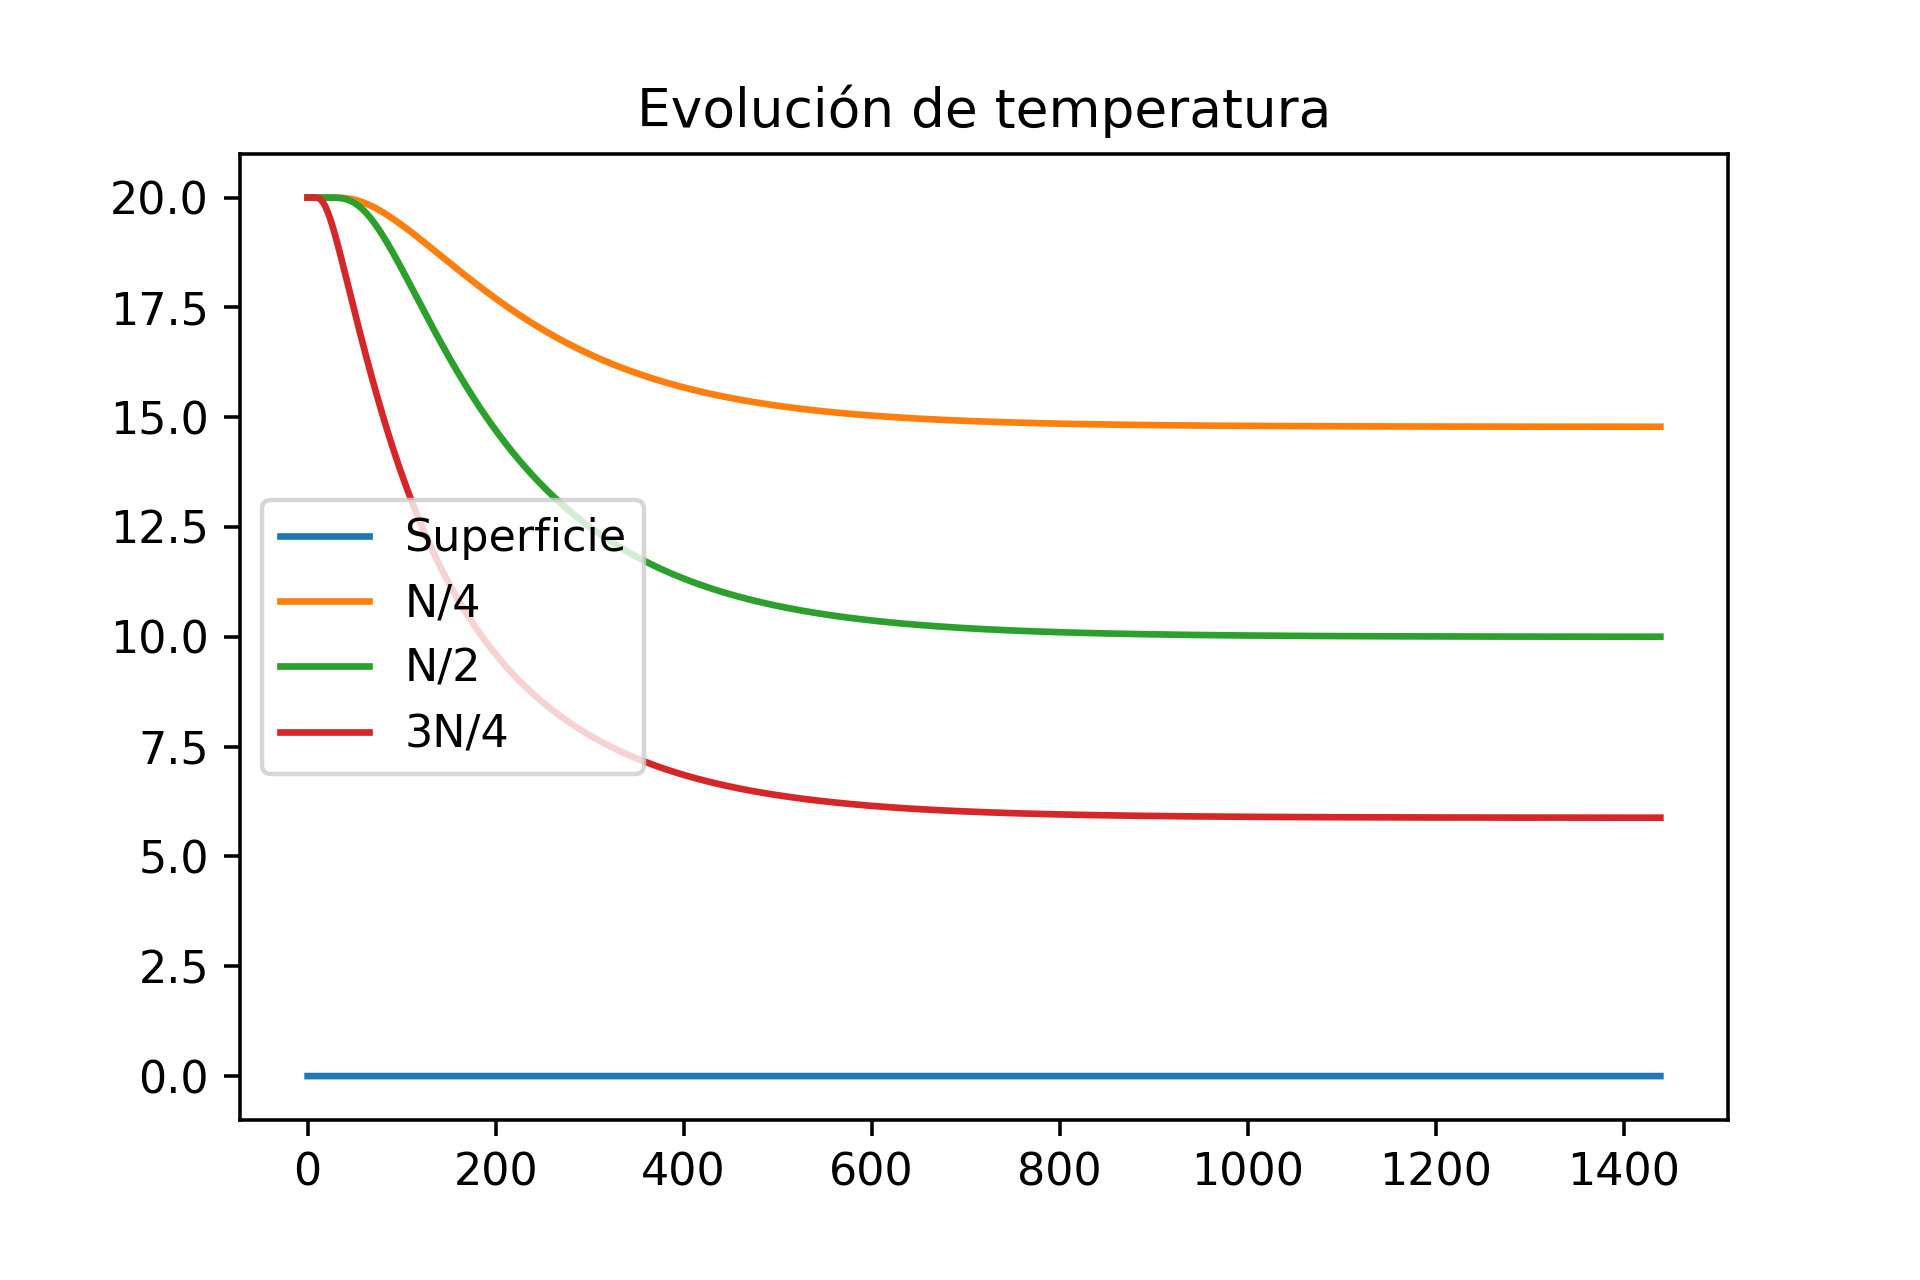
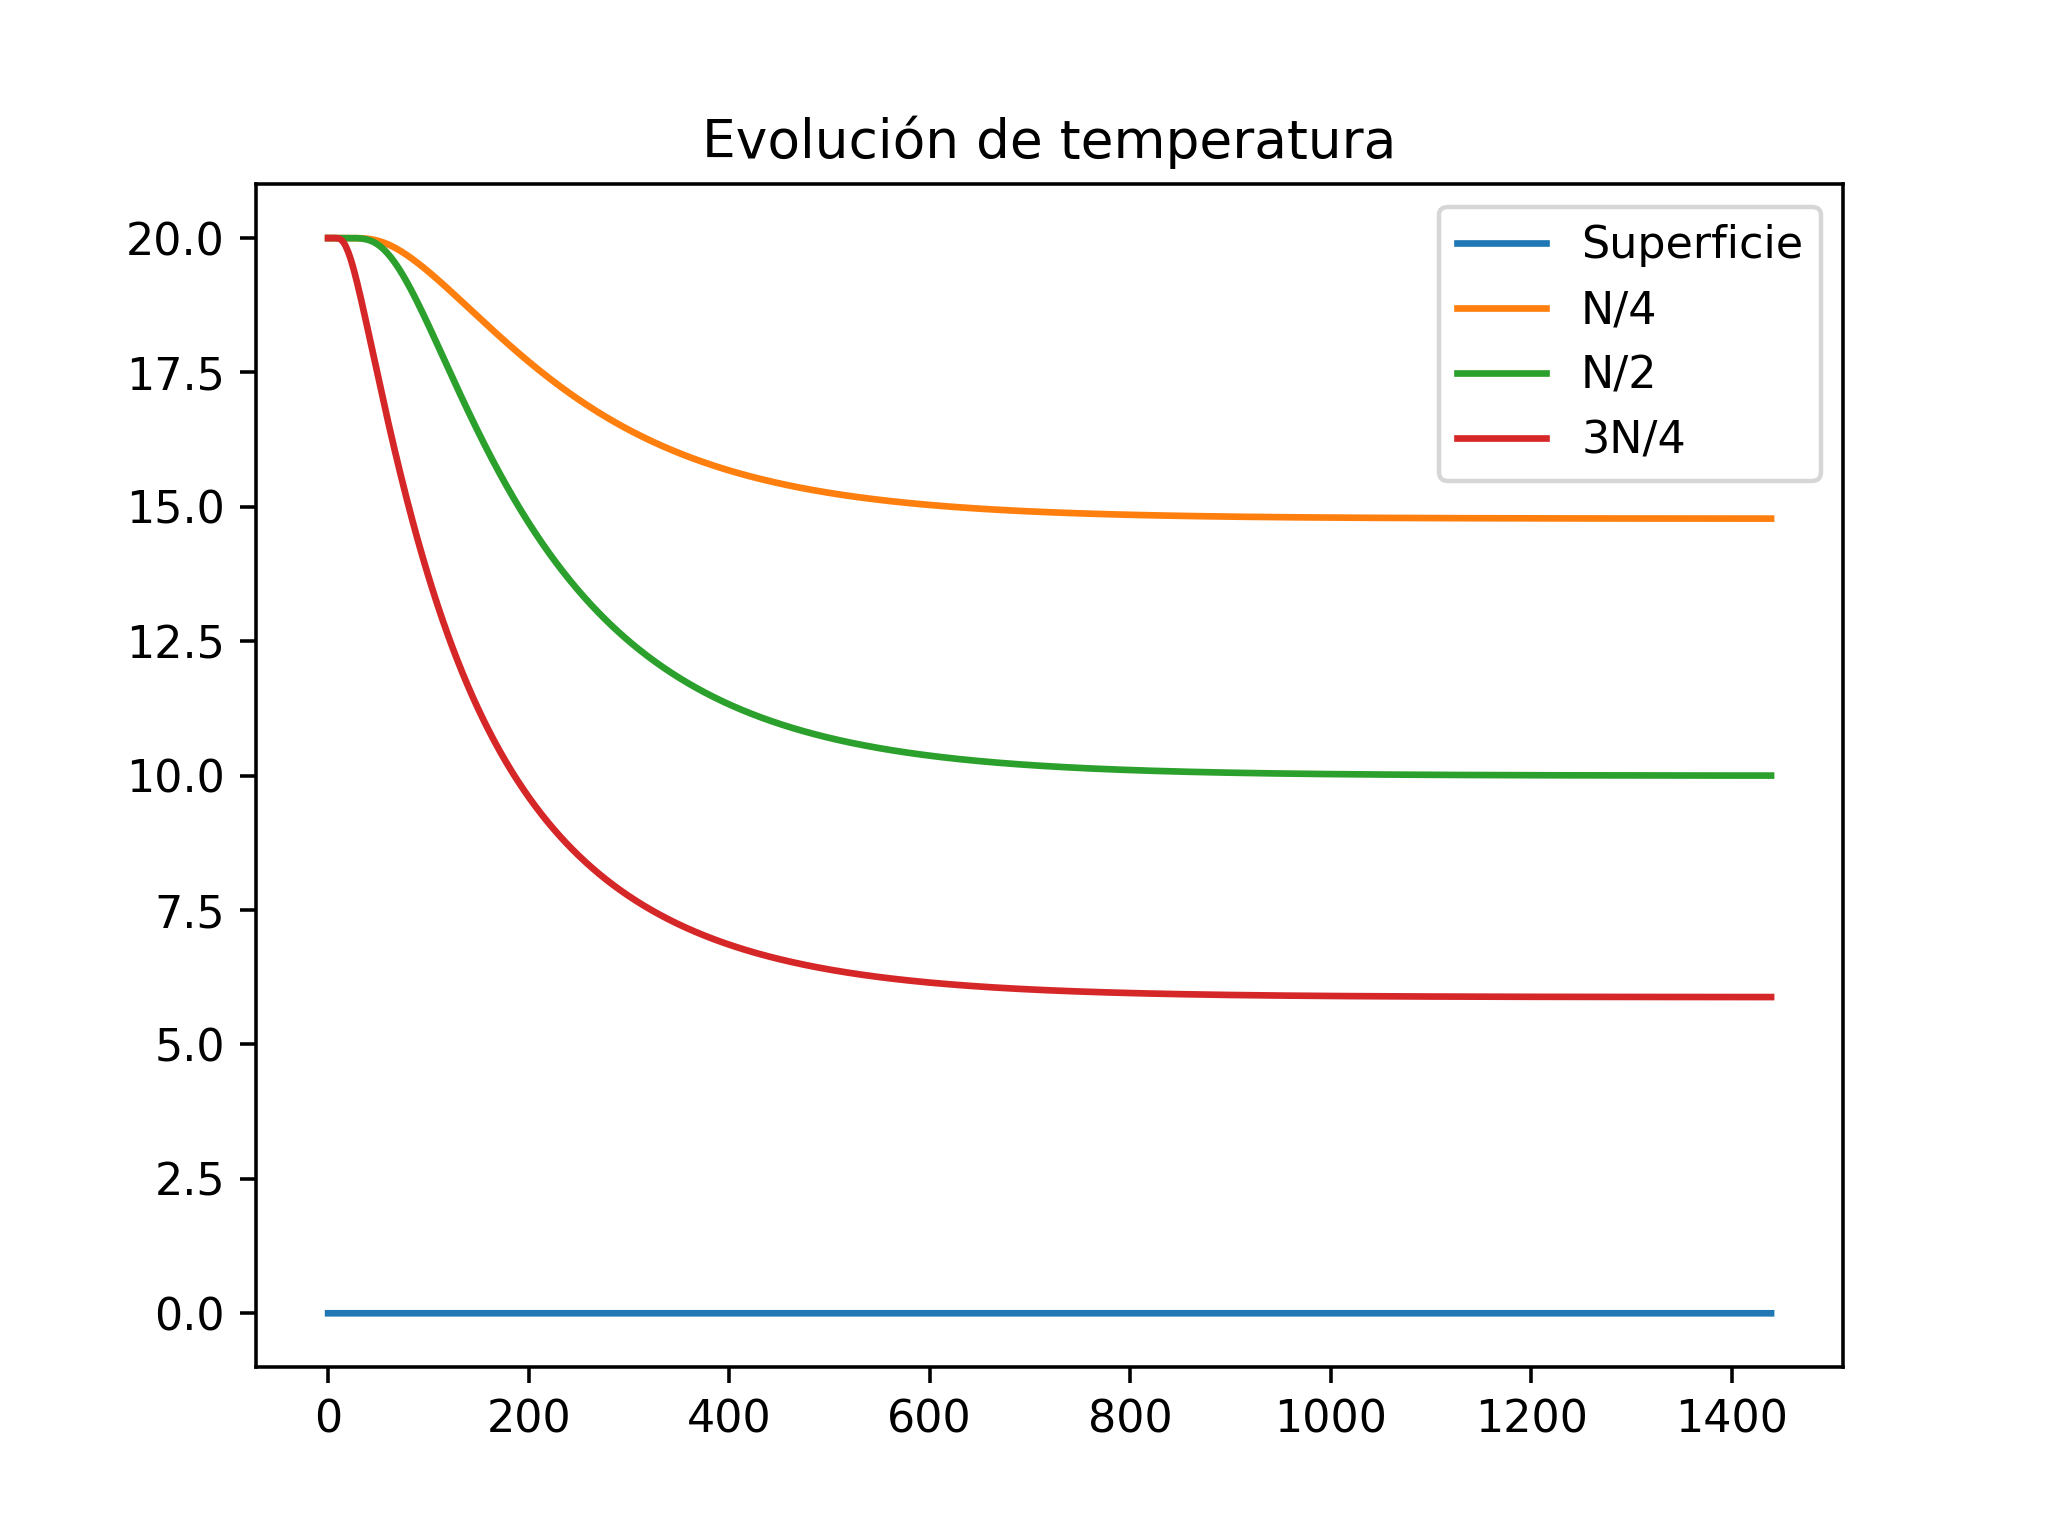
Caso1

diff --git a/Entrega_5/caso_1.py b/Entrega_5/caso_1.py
@@ -134,7 +134,7 @@ for k in range(int32(Days/dt)):
     u_k[0, :] = 20. #Borde Izquierdo
     u_k[:, 0] = 20. #Borde Inferior
     u_k[:, -1] = 0. #Borde Superior
-    u_k[-1, :] = 0. #Borde Derecho
+    u_k[-1, :] = u_k[-2,:] - 0 * dx #Borde Derecho
     
     u_0[k] = u_k[int(Nx / 2), -1]
     u_N4[k] = u_k[int(Nx / 2), int(Ny / 4)]
@@ -156,7 +156,7 @@ for k in range(int32(Days/dt)):
 figure(2)
 plot(range(int32(Days / dt)), u_0, label='Superficie')
 plot(range(int32(Days / dt)), u_N4, label='N/4')
-plot(range(int32(Days / dt)), u_2N4, label='N/2')
+plot(range(int32(Days / dt)), u_2N4, label='2N/4')
 plot(range(int32(Days / dt)), u_3N4, label='3N/4')
 title("Evolución de temperatura")
 legend()

diff --git a/Entrega_5/GIFY.py b/Entrega_5/GIFY.py
@@ -9,8 +9,8 @@ def natural_keys(text):
     return[atoi(c) for c in re.split(r'(\d+)', text)]
 
 #Frame
-fp_in = "Caso 6/frame_*.png"
-fp_out = "caso_6.gif"
+fp_in = "Caso1/frame_*.png"
+fp_out = "caso_1.gif"
 
 listaImagenes = sorted(glob.glob(fp_in))
 print("sorted(glob.glob(fp_in)): ", listaImagenes)
